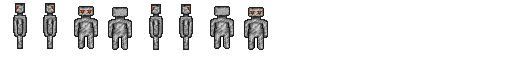
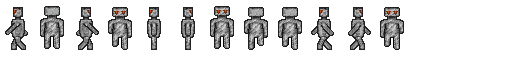
hostile units

diff --git a/core/src/com/erloo/pixelgame/units/hostile/Golem.java b/core/src/com/erloo/pixelgame/units/hostile/Golem.java
@@ -221,7 +221,7 @@ public class Golem extends Enemy implements Damageable {
     }
 
     public Rectangle getBoundingRectangle() {
-        return new Rectangle(position.x, position.y, currentFrame.getRegionWidth(), currentFrame.getRegionHeight());
+        return new Rectangle(position.x - 8, position.y - 16, currentFrame.getRegionWidth(), currentFrame.getRegionHeight());
     }
 
     private Animation<TextureRegion> leftAnimation;
@@ -233,21 +233,29 @@ public class Golem extends Enemy implements Damageable {
         Array<TextureAtlas.AtlasRegion> leftFrames = new Array<>();
         leftFrames.add(atlas.findRegion("left1"));
         leftFrames.add(atlas.findRegion("left2"));
+        leftFrames.add(atlas.findRegion("left3"));
+        leftFrames.add(atlas.findRegion("left4"));
         leftAnimation = new Animation<>(0.3f, leftFrames, Animation.PlayMode.LOOP);
 
         Array<TextureAtlas.AtlasRegion> rightFrames = new Array<>();
         rightFrames.add(atlas.findRegion("right1"));
         rightFrames.add(atlas.findRegion("right2"));
+        rightFrames.add(atlas.findRegion("right3"));
+        rightFrames.add(atlas.findRegion("right4"));
         rightAnimation = new Animation<>(0.3f, rightFrames, Animation.PlayMode.LOOP);
 
         Array<TextureAtlas.AtlasRegion> backFrames = new Array<>();
         backFrames.add(atlas.findRegion("back1"));
         backFrames.add(atlas.findRegion("back2"));
+        backFrames.add(atlas.findRegion("back3"));
+        backFrames.add(atlas.findRegion("back4"));
         backAnimation = new Animation<>(0.3f, backFrames, Animation.PlayMode.LOOP);
 
         Array<TextureAtlas.AtlasRegion> frontFrames = new Array<>();
         frontFrames.add(atlas.findRegion("front1"));
         frontFrames.add(atlas.findRegion("front2"));
+        frontFrames.add(atlas.findRegion("front3"));
+        frontFrames.add(atlas.findRegion("front4"));
         frontAnimation = new Animation<>(0.3f, frontFrames, Animation.PlayMode.LOOP);
 
         // Инициализируем переменные для хранения первых кадров каждой анимации
